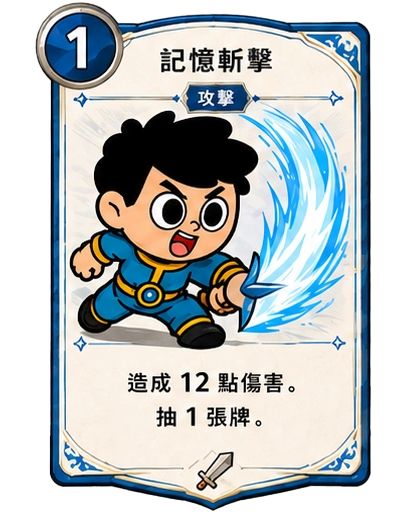
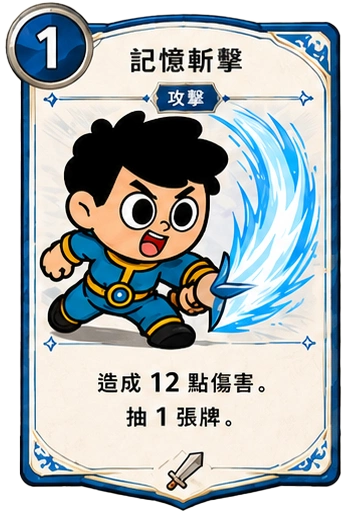
Add files via upload

diff --git a/style.css b/style.css
@@ -1014,7 +1014,7 @@ button, .card-btn{
   .mobile-bottom-toolbar .icon-btn{padding:10px 8px;min-height:40px;font-size:12px;}
 }
 
-/* v38 mobile-first simplification */
+/* v39 mobile-first simplification */
 @media (max-width: 768px){
   .mini-brand-sub{display:none !important;}
   .mobile-topbar-simple{padding:8px 0 4px !important;}
@@ -1204,4 +1204,283 @@ button, .card-btn{
     min-height:38px !important;
     font-size:11px !important;
   }
+}
+
+
+/* v39 mobile refinement: larger usable card area + grounded character tuning */
+@media (max-width: 768px){
+  body{
+    padding-bottom:env(safe-area-inset-bottom);
+  }
+
+  /* Less vertical chrome at the top */
+  .mobile-topbar-simple{
+    padding:4px 0 2px !important;
+  }
+  .mobile-topbar-simple .topbar-brand{
+    padding:10px 16px !important;
+    border-radius:14px !important;
+  }
+  .mini-brand-title{
+    font-size:22px !important;
+    letter-spacing:.02em !important;
+  }
+
+  /* Keep battle scene readable but not too tall */
+  .mobile-scene-shell{
+    height:31vh !important;
+    min-height:228px !important;
+    max-height:272px !important;
+  }
+  .battle-scene-image{
+    object-position:center center !important;
+  }
+
+  /* Character scale and grounded placement */
+  .mobile-scene-shell .actor-boy{
+    left:15.5% !important;
+    bottom:5.2% !important;
+    width:14.4% !important;
+    min-width:58px !important;
+  }
+  .mobile-scene-shell .actor-girl{
+    left:28.2% !important;
+    bottom:5.5% !important;
+    width:13.6% !important;
+    min-width:55px !important;
+  }
+  .mobile-scene-shell .actor-koro{
+    left:40.3% !important;
+    bottom:5.0% !important;
+    width:11.2% !important;
+    min-width:44px !important;
+  }
+  .mobile-scene-shell .actor-bear{
+    left:50.0% !important;
+    bottom:5.4% !important;
+    width:11.0% !important;
+    min-width:44px !important;
+  }
+  .mobile-scene-shell .actor-enemy{
+    right:3.2% !important;
+    bottom:4.3% !important;
+    width:34.5% !important;
+    min-width:132px !important;
+  }
+  .mobile-scene-shell .battle-actor::before{
+    bottom:0 !important;
+    height:10px !important;
+    opacity:.58 !important;
+    filter:blur(5px) !important;
+  }
+
+  /* More transparent HUDs inside battle scene */
+  .hud-pill.dark,
+  .block-bubble,
+  .mobile-enemy-intent-panel{
+    background:rgba(8,18,33,.36) !important;
+    backdrop-filter:blur(2px) !important;
+  }
+  .enemy-red-text,
+  .enemy-red-text strong,
+  .enemy-red-text b,
+  .enemy-red-text em,
+  .enemy-red-text .intent-title{
+    color:#ff7a7a !important;
+  }
+
+  /* Ultra-compact one-line info strip */
+  .battle-status-strip{
+    display:grid !important;
+    grid-template-columns:repeat(5, minmax(0, 1fr)) !important;
+    gap:3px !important;
+    overflow:visible !important;
+    padding:0 !important;
+    margin:0 !important;
+  }
+  .status-chip{
+    min-width:0 !important;
+    padding:4px 3px !important;
+    border-radius:9px !important;
+    display:flex !important;
+    flex-direction:column !important;
+    align-items:center !important;
+    justify-content:center !important;
+    gap:1px !important;
+    text-align:center !important;
+    background:rgba(10,24,45,.46) !important;
+    border-color:rgba(255,255,255,.07) !important;
+    box-shadow:none !important;
+  }
+  .status-chip .chip-label{
+    font-size:8px !important;
+    line-height:1 !important;
+    white-space:nowrap !important;
+  }
+  .status-chip strong{
+    font-size:13px !important;
+    line-height:1 !important;
+  }
+  .status-chip small{
+    display:none !important;
+  }
+
+  /* Companion skill row reduced */
+  .mobile-companion-skill{
+    padding:4px 5px !important;
+    border-radius:10px !important;
+    margin-top:0 !important;
+  }
+  .mobile-companion-skill .companion-skill-title,
+  .mobile-companion-skill .companion-hint{
+    display:none !important;
+  }
+  .mobile-companion-skill .companion-btn-row{
+    grid-template-columns:1fr 1fr !important;
+    gap:5px !important;
+  }
+  .mobile-companion-skill .companion-btn{
+    min-height:30px !important;
+    padding:5px 7px !important;
+    font-size:10px !important;
+    line-height:1.05 !important;
+    border-radius:11px !important;
+  }
+
+  /* Card section: use most of the lower viewport */
+  .mobile-dock-shell{
+    padding:5px 5px 7px !important;
+    gap:5px !important;
+  }
+  .mobile-head{
+    padding:0 !important;
+    margin:0 !important;
+    gap:5px !important;
+    align-items:center !important;
+  }
+  .mobile-head h3{
+    font-size:13px !important;
+    line-height:1 !important;
+  }
+  .mobile-end-btn{
+    min-width:88px !important;
+    min-height:32px !important;
+    padding:7px 9px !important;
+    font-size:11px !important;
+    border-radius:11px !important;
+  }
+
+  /* Show more cards in a row; keep whole card visible */
+  .mobile-hand-scroll{
+    gap:4px !important;
+    padding:1px 0 0 !important;
+    scroll-padding-inline:3px !important;
+  }
+  .mobile-hand-scroll .card-btn{
+    min-width:88px !important;
+    max-width:88px !important;
+  }
+  .mobile-hand-scroll .card-image-wrap{
+    border-radius:9px !important;
+    border-width:1px !important;
+    box-shadow:0 4px 10px rgba(0,0,0,.22) !important;
+  }
+  .mobile-hand-scroll .card-meta{
+    left:2px !important;
+    right:2px !important;
+    bottom:2px !important;
+    padding:3px 3px !important;
+    border-radius:7px !important;
+    background:rgba(12,22,38,.64) !important;
+  }
+  .mobile-hand-scroll .card-meta strong{
+    font-size:8px !important;
+    line-height:1 !important;
+  }
+  .mobile-hand-scroll .card-meta span{
+    font-size:7px !important;
+    line-height:1.1 !important;
+  }
+
+  /* Bottom tools de-emphasized */
+  .mobile-bottom-toolbar{
+    margin-top:5px !important;
+    padding:6px !important;
+    gap:5px !important;
+    border-radius:12px !important;
+    background:rgba(9,24,44,.72) !important;
+  }
+  .mobile-bottom-toolbar .icon-btn{
+    min-height:34px !important;
+    padding:7px 5px !important;
+    font-size:10px !important;
+    border-radius:10px !important;
+  }
+}
+
+/* iPhone 11 / 390px tuning */
+@media (min-width: 380px) and (max-width: 420px){
+  .mobile-hand-scroll .card-btn{
+    min-width:92px !important;
+    max-width:92px !important;
+  }
+  .mobile-scene-shell{
+    height:30vh !important;
+    min-height:222px !important;
+  }
+}
+
+/* Very narrow devices */
+@media (max-width: 360px){
+  .mobile-hand-scroll .card-btn{
+    min-width:84px !important;
+    max-width:84px !important;
+  }
+  .status-chip .chip-label{font-size:7px !important;}
+  .status-chip strong{font-size:12px !important;}
+}
+
+
+/* v40 mobile polish: one-line companion skills + better card tapping */
+@media (max-width: 768px){
+  .mobile-companion-skill{
+    padding:4px 6px !important;
+    margin-top:0 !important;
+  }
+  .mobile-companion-skill .companion-btn-row{
+    display:flex !important;
+    flex-direction:row !important;
+    flex-wrap:nowrap !important;
+    gap:6px !important;
+    align-items:stretch !important;
+  }
+  .mobile-companion-skill .companion-btn{
+    flex:1 1 0 !important;
+    width:50% !important;
+    min-width:0 !important;
+    min-height:28px !important;
+    padding:5px 6px !important;
+    font-size:10px !important;
+    line-height:1 !important;
+    white-space:nowrap !important;
+    overflow:hidden !important;
+    text-overflow:ellipsis !important;
+  }
+  .mobile-dock-shell{gap:4px !important;}
+  .mobile-head{margin-top:0 !important;}
+  .mobile-hand-scroll{
+    gap:4px !important;
+    padding-top:0 !important;
+  }
+  .mobile-hand-scroll .card-btn{
+    min-width:96px !important;
+    max-width:96px !important;
+  }
+  .mobile-hand-scroll .card-image-wrap{
+    background:transparent !important;
+  }
+}
+@media (max-width: 390px){
+  .mobile-companion-skill .companion-btn{font-size:9.5px !important;}
+  .mobile-hand-scroll .card-btn{min-width:92px !important;max-width:92px !important;}
 }

diff --git a/README_GITHUB.md b/README_GITHUB.md
@@ -1,4 +1,4 @@
-memory_traveler_github_pages_v38
+memory_traveler_github_pages_v39
 
 # 記憶旅人 Mobile DEMO v37
 
@@ -58,3 +58,19 @@ http://localhost:8000
 - 請不要只上傳 `index.html`，必須連同 `assets/`、`style.css`、`game.js` 一起上傳。
 - 若圖片無法顯示，通常是 `assets/` 沒有一起上傳，或資料夾層級不正確。
 - 本版本不需要 `package.json`、`vercel.json` 或任何 build command。
+
+
+## v39 更新
+- 依照手機版優先策略再調整一次。
+- 中間資訊列壓成五格超精簡單行。
+- 夥伴技能按鈕縮小。
+- 卡牌區高度與可視空間加大。
+- 單張卡牌寬度縮小，使同畫面可看到更多卡牌。
+- 角色放大並重新貼近地面位置。
+- 非必要 UI 透明化與弱化。
+
+
+## v40 更新
+- 手機版夥伴技能按鈕調整為單行顯示。
+- 卡牌區可視與點選空間優化。
+- 修正部分卡牌圖片的假透明棋盤格問題，重新裁切並輸出卡圖資產。
